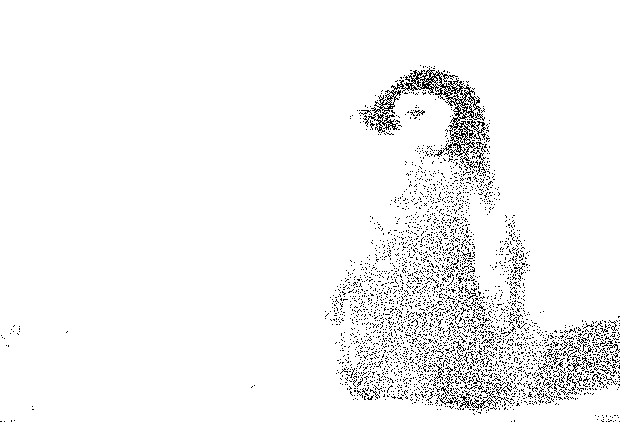
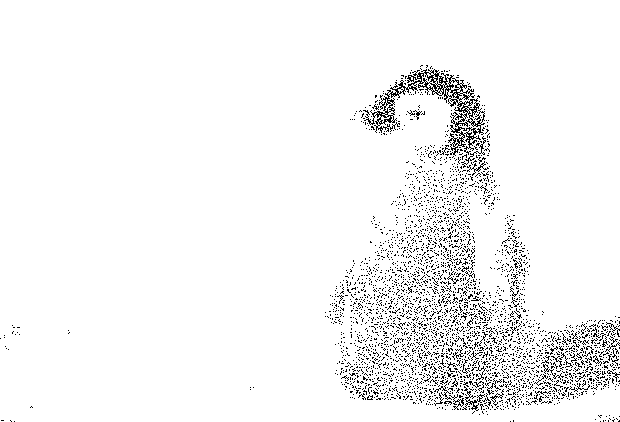
Implement ordered dithering

Changed region(s): [[0.521, 0.154, 1.0, 0.9858], [0.95, 0.9858, 1.0, 1.0]]

diff --git a/dither.go b/dither.go
@@ -146,12 +146,93 @@ func (gd GridDitherer) Apply(gray *image.Gray) *image.Gray {
 	return dithered
 }
 
+// A Pattern is a matrix of threshold values used for ordered dithering.
+type Pattern [][]uint8
+
+func applyOrderedDithering(gray *image.Gray, pattern Pattern) *image.Gray {
+	var (
+		order    = len(pattern)
+		bounds   = gray.Bounds()
+		dithered = makeGray(bounds, 255)
+	)
+	for x := bounds.Min.X; x < bounds.Max.X; x++ {
+		for y := bounds.Min.Y; y < bounds.Max.Y; y++ {
+			var threshold = pattern[x%order][y%order]
+			if gray.GrayAt(x, y).Y > threshold {
+				dithered.SetGray(x, y, color.Gray{255}) // White
+			} else {
+				dithered.SetGray(x, y, color.Gray{0}) // Black
+			}
+		}
+	}
+	return dithered
+}
+
+// Order2OrderedDitherer implements order-2 ordered dithering.
+type Order2OrderedDitherer struct{}
+
+// Apply order-2 ordered dithering dithering.
+func (o2od Order2OrderedDitherer) Apply(gray *image.Gray) *image.Gray {
+	var pattern = Pattern{
+		{0, 170},
+		{255, 85},
+	}
+	return applyOrderedDithering(gray, pattern)
+}
+
+// Order3OrderedDitherer implements order-3 ordered dithering.
+type Order3OrderedDitherer struct{}
+
+// Apply order-3 ordered dithering dithering.
+func (o3od Order3OrderedDitherer) Apply(gray *image.Gray) *image.Gray {
+	var pattern = Pattern{
+		{0, 223, 95},
+		{191, 159, 63},
+		{127, 31, 255},
+	}
+	return applyOrderedDithering(gray, pattern)
+}
+
+// Order4OrderedDitherer implements order-4 ordered dithering.
+type Order4OrderedDitherer struct{}
+
+// Apply order-4 ordered dithering dithering.
+func (o4od Order4OrderedDitherer) Apply(gray *image.Gray) *image.Gray {
+	var pattern = Pattern{
+		{0, 136, 34, 170},
+		{204, 68, 238, 102},
+		{51, 187, 17, 153},
+		{255, 119, 221, 85},
+	}
+	return applyOrderedDithering(gray, pattern)
+}
+
+// Order8OrderedDitherer implements order-8 ordered dithering.
+type Order8OrderedDitherer struct{}
+
+// Apply order-8 ordered dithering dithering.
+func (o8od Order8OrderedDitherer) Apply(gray *image.Gray) *image.Gray {
+	var pattern = Pattern{
+		{0, 194, 48, 242, 12, 206, 60, 255},
+		{129, 64, 178, 113, 141, 76, 190, 125},
+		{32, 226, 16, 210, 44, 238, 28, 222},
+		{161, 97, 145, 80, 174, 109, 157, 93},
+		{8, 202, 56, 250, 4, 198, 52, 246},
+		{137, 72, 186, 121, 133, 68, 182, 117},
+		{40, 234, 24, 218, 36, 230, 20, 214},
+		{170, 105, 153, 89, 165, 101, 149, 85},
+	}
+	return applyOrderedDithering(gray, pattern)
+}
+
+// A DiffusionCell indicates a relative position and a diffusion intensity used for error diffusion.
 type DiffusionCell struct {
 	x int
 	y int
 	m int16
 }
 
+// A DiffusionMask contains a slice of DiffusionCells and a normalization divisor.
 type DiffusionMask struct {
 	divisor int16
 	cells   []DiffusionCell

diff --git a/examples/main.go b/examples/main.go
@@ -38,6 +38,22 @@ func main() {
 	var gd = halfgone.GridDitherer{K: 5, Alpha: 3, Beta: 8, RNG: rng}.Apply(gray)
 	halfgone.SaveImagePNG(gd, "images/grid_dithering.png")
 
+	// Order-2 ordered dithering
+	var o2od = halfgone.Order2OrderedDitherer{}.Apply(gray)
+	halfgone.SaveImagePNG(o2od, "images/order_2_ordered_dithering.png")
+
+	// Order-3 ordered dithering
+	var o3od = halfgone.Order3OrderedDitherer{}.Apply(gray)
+	halfgone.SaveImagePNG(o3od, "images/order_3_ordered_dithering.png")
+
+	// Order-4 ordered dithering
+	var o4od = halfgone.Order4OrderedDitherer{}.Apply(gray)
+	halfgone.SaveImagePNG(o4od, "images/order_4_ordered_dithering.png")
+
+	// Order-8 ordered dithering
+	var o8od = halfgone.Order8OrderedDitherer{}.Apply(gray)
+	halfgone.SaveImagePNG(o8od, "images/order_8_ordered_dithering.png")
+
 	// Floyd-Steinberg dithering
 	var fsd = halfgone.FloydSteinbergDitherer{}.Apply(gray)
 	halfgone.SaveImagePNG(fsd, "images/floyd_steinberg_dithering.png")

diff --git a/README.md b/README.md
@@ -2,9 +2,9 @@
 
 This repository contains implementations of *digital halftoning* - also called *dithering* -  algorithms written in Go. The implementations are restricted to black and white rendering and are based on the `image` library from Go's standard library.
 
-The implementations are quite fast but are not optimized for production where one would typically want to use bit shifting when possible.
+The implementations are quite fast but are not optimized for production where one would typically want to use bit shifting when possible. I moved the common code for error-diffusion dithering into a separate functions because it's always the same underlying algorithm, whether it be Floyd-Steinberg dithering or Stucki dithering. I did the same for ordered dithering. In production you would probably want to choose a particular dithering algorithm and avoid using generic code which filters specific optimizations.
 
-If you are interested in digital halftoning, [this web page](http://www.efg2.com/Lab/Library/ImageProcessing/DHALF.TXT) is, in my opinion, a fantastic introduction.
+If you are interested in digital halftoning, [this web page](http://www.efg2.com/Lab/Library/ImageProcessing/DHALF.TXT) is, in my opinion, a fantastic introduction. I've also written a [blog post](https://maxhalford.github.io/blog/halftoning-1/) which goes through some of the implementations.
 
 
 ## Original image
@@ -70,7 +70,47 @@ halfgone.GridDitherer{K: 5, Alpha: 3, Beta: 8, RNG: rng}.Apply(gray)
 ![grid_dithering](examples/images/grid_dithering.png)
 
 
-## Floyd-Steinberg dithering
+## Ordered dithering
+
+### Order-2 ordered dithering
+
+```go
+halfgone.Order2OrderedDitherer{}.Apply(gray)
+```
+
+![order_2_ordered_dithering](examples/images/order_2_ordered_dithering.png)
+
+
+### Order-3 ordered dithering
+
+```go
+halfgone.Order3OrderedDitherer{}.Apply(gray)
+```
+
+![order_3_ordered_dithering](examples/images/order_3_ordered_dithering.png)
+
+
+### Order-4 ordered dithering
+
+```go
+halfgone.Order4OrderedDitherer{}.Apply(gray)
+```
+
+![order_4_ordered_dithering](examples/images/order_4_ordered_dithering.png)
+
+
+### Order-8 ordered dithering
+
+```go
+halfgone.Order8OrderedDitherer{}.Apply(gray)
+```
+
+![order_8_ordered_dithering](examples/images/order_8_ordered_dithering.png)
+
+
+## Error-diffusion dithering
+
+### Floyd-Steinberg dithering
 
 ```go
 halfgone.FloydSteinbergDitherer{}.apply(gray)
@@ -79,7 +119,7 @@ halfgone.FloydSteinbergDitherer{}.apply(gray)
 ![floyd_steinberg_dithering](examples/images/floyd_steinberg_dithering.png)
 
 
-## Jarvis-Judice-Ninke dithering
+### Jarvis-Judice-Ninke dithering
 
 ```go
 halfgone.JarvisJudiceNinkeDitherer{}.Apply(gray)
@@ -88,7 +128,7 @@ halfgone.JarvisJudiceNinkeDitherer{}.Apply(gray)
 ![jarvis_judice_ninke_dithering](examples/images/jarvis_judice_ninke_dithering.png)
 
 
-## Stucki dithering
+### Stucki dithering
 
 ```go
 halfgone.StuckiDitherer{}.Apply(gray)
@@ -97,7 +137,7 @@ halfgone.StuckiDitherer{}.Apply(gray)
 ![stucki_dithering](examples/images/stucki_dithering.png)
 
 
-## Atkinson dithering
+### Atkinson dithering
 
 ```go
 halfgone.AtkinsonDitherer{}.Apply(gray)
@@ -106,7 +146,7 @@ halfgone.AtkinsonDitherer{}.Apply(gray)
 ![atkinson_dithering](examples/images/atkinson_dithering.png)
 
 
-## Burkes dithering
+### Burkes dithering
 
 ```go
 halfgone.BurkesDitherer{}.Apply(gray)
@@ -115,7 +155,7 @@ halfgone.BurkesDitherer{}.Apply(gray)
 ![burkes_dithering](examples/images/burkes_dithering.png)
 
 
-## Sierra dithering
+### Sierra dithering
 
 ```go
 halfgone.SierraDitherer{}.Apply(gray)
@@ -124,7 +164,7 @@ halfgone.SierraDitherer{}.Apply(gray)
 ![seria_dithering](examples/images/seria_dithering.png)
 
 
-## Two-row Sierra dithering
+### Two-row Sierra dithering
 
 ```go
 halfgone.TwoRowSierraDitherer{}.Apply(gray)
@@ -133,11 +173,10 @@ halfgone.TwoRowSierraDitherer{}.Apply(gray)
 ![two_row_seria_dithering](examples/images/two_row_seria_dithering.png)
 
 
-## Sierra Lite dithering
+### Sierra Lite dithering
 
 ```go
 halfgone.SierraLiteDitherer{}.Apply(gray)
 ```
 
 ![seria_lite_dithering](examples/images/seria_lite_dithering.png)
-
